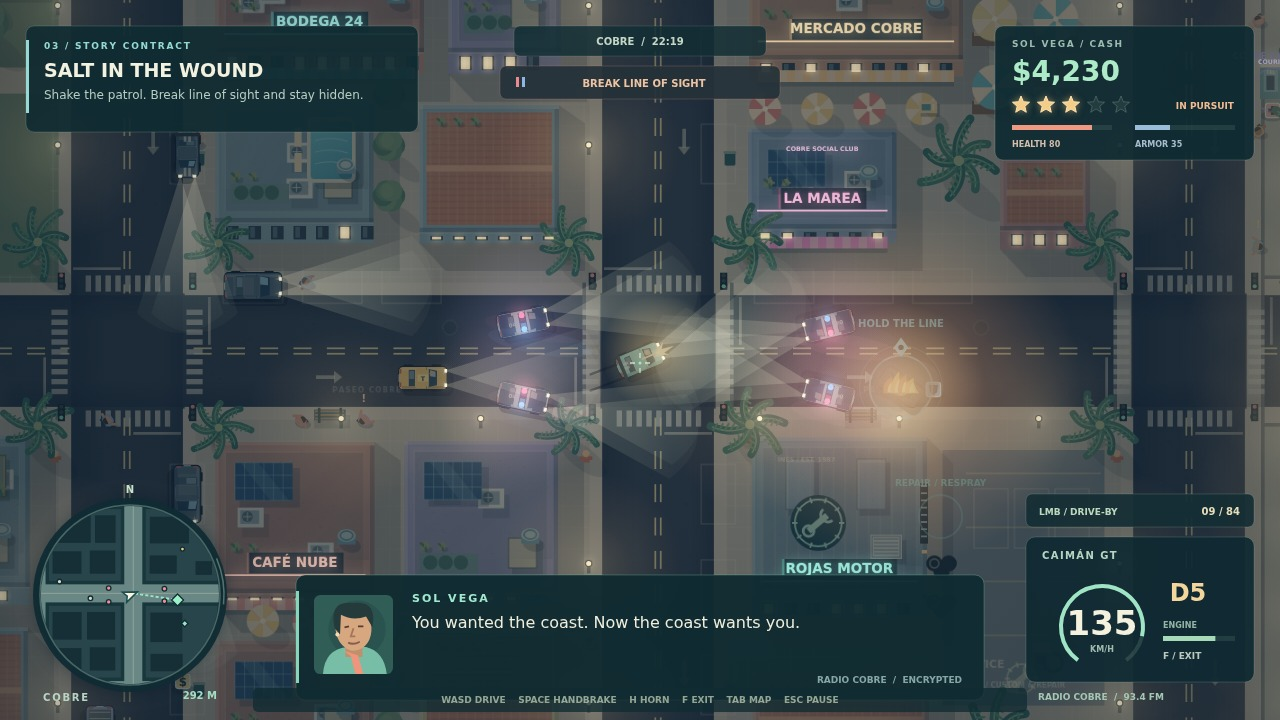
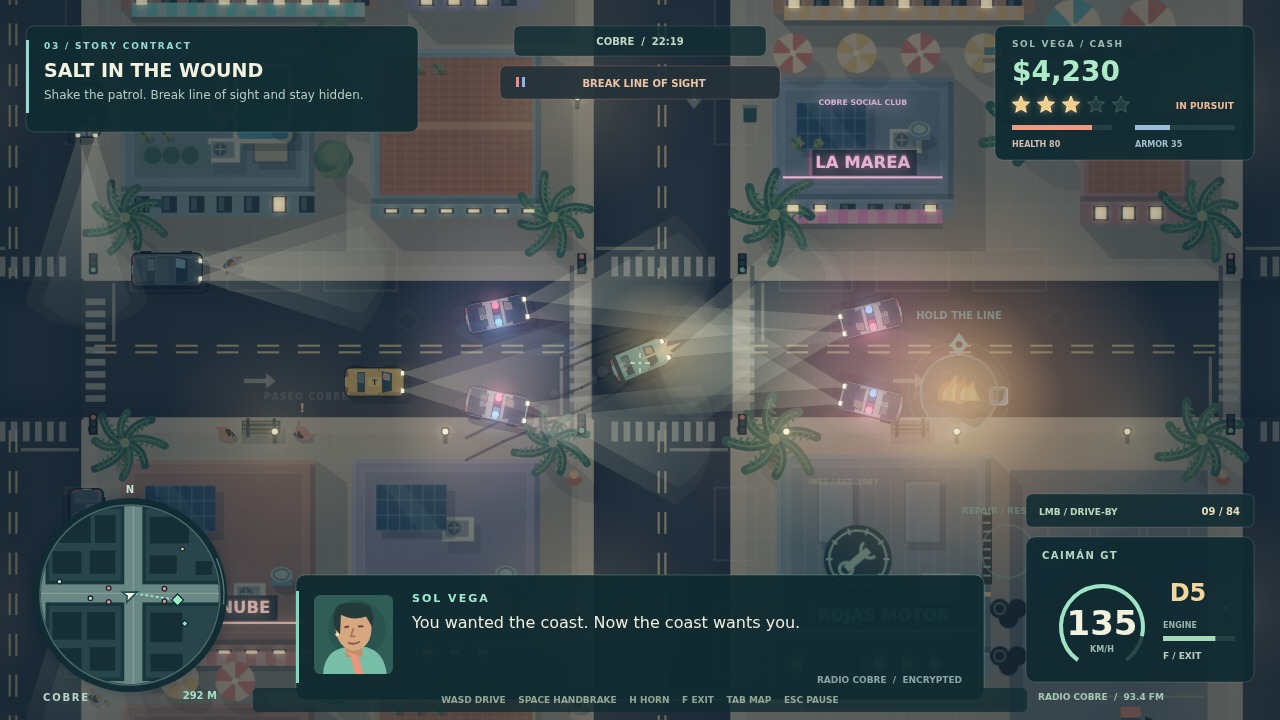
cover: heat scene keeps its action effects visible at capture

diff --git a/game/src/shots.js b/game/src/shots.js
@@ -19,15 +19,42 @@
       this.game.pedestrians.list = this.game.pedestrians.list.filter(person => Math.hypot(person.x - x, person.y - y) > radius);
     }
     drive(car) { this.game.player.vehicle = car; car.driver = 'sol'; this.game.player.x = car.x; this.game.player.y = car.y; }
-    skid(points) {
+    skid(points, width = 9, life = 70) {
       for (let n = 1; n < points.length; n++) {
-        for (const side of [-1, 1]) this.game.vehicles.skids.push({ px: points[n - 1][0], py: points[n - 1][1] + side * 9,
-          x: points[n][0], y: points[n][1] + side * 9, life: 70 });
+        for (const side of [-1, 1]) this.game.vehicles.skids.push({ px: points[n - 1][0], py: points[n - 1][1] + side * width,
+          x: points[n][0], y: points[n][1] + side * width, life });
       }
+    }
+    disarmHeatLoop() {
+      if (!this.heatDriver) return;
+      const index = this.game.screenDraw.indexOf(this.heatDriver);
+      if (index >= 0) this.game.screenDraw.splice(index, 1);
+      this.heatDriver = null;
+    }
+    heatDriveBy(hero, wreck) {
+      const game = this.game;
+      game.combat.bullets = game.combat.bullets.filter(bullet => !bullet.heat);
+      game.combat.shoot(hero.x, hero.y, hero.angle, 'sol');
+      const shot = game.combat.bullets[game.combat.bullets.length - 1];
+      if (shot) shot.heat = true;
+      game.particles.smoke(wreck.x + game.rng.range(-7, 7), wreck.y + game.rng.range(-5, 5), '#8f968c', 5);
+      game.particles.smoke(hero.x - Math.cos(hero.angle) * 46, hero.y - Math.sin(hero.angle) * 46, '#a4ab9f', 4);
+    }
+    armHeatLoop(hero, wreck) {
+      const game = this.game;
+      this.disarmHeatLoop();
+      this.heatDriver = () => {
+        if (game.__SHOT_SCENE__ !== 'heat' || game.frameCount <= 0 || game.frameCount % 18 !== 0) return;
+        if (this.heatFiredFrame === game.frameCount) return;
+        this.heatFiredFrame = game.frameCount;
+        this.heatDriveBy(hero, wreck);
+      };
+      game.screenDraw.push(this.heatDriver);
     }
     bootRequestedScene() {
       const shot = this.game.params.get('shot');
       if (!['start', 'play', 'chase', 'night', 'walk', 'heat'].includes(shot)) return;
+      this.disarmHeatLoop();
       const game = this.game;
       game.staged = true; game.mode = shot === 'start' ? 'title' : 'play'; game.paused = false;
       game.camera.locked = true; game.visualTime = 2.7; game.time = 61.7;
@@ -147,12 +174,15 @@
       game.missions.shotMarker = { x: 2340, y: 1520, label: 'HOLD THE LINE', action: 'KEEP MOVING', hostile: false };
       const hero = this.car('sports', 2050, 1490, -0.4, '#91d6bc', 'sol', 300); this.drive(hero);
       hero.hp = 80; hero.speed = 300; hero.vx = Math.cos(-0.4) * 300; hero.vy = Math.sin(-0.4) * 300;
-      this.skid([[1995, 1515], [2040, 1498]]);
+      this.skid([[1892, 1571], [1926, 1554], [1962, 1539], [1997, 1525], [2026, 1511], [2043, 1500], [2050, 1490]], 10, 74);
+      this.skid([[1978, 1492], [2012, 1478], [2040, 1468]], 7, 60);
       const box = (x, y, angle) => { const unit = game.police.spawnUnit(x, y, angle); unit.speed = 250; unit.desiredSpeed = 250; return unit; };
       box(1920, 1448, -0.2); box(1920, 1532, 0.2); box(2260, 1452, 2.9); box(2260, 1528, -2.9);
       const wreck = this.car('sedan', 2340, 1520, 0.6, '#a8b4bd', null); wreck.damage(999, 'sol');
       game.particles.smoke(2340, 1520, '#8f968c', 8);
-      game.combat.bullets = []; game.combat.shoot(hero.x, hero.y, hero.angle, 'sol');
+      game.particles.smoke(2016, 1501, '#9aa298', 5); game.particles.smoke(1972, 1520, '#9aa298', 4);
+      this.heatDriveBy(hero, wreck);
+      this.armHeatLoop(hero, wreck);
       game.story.radio('Sol Vega', 'You wanted the coast. Now the coast wants you.', 6);
       game.camera.snap(2050, 1490, 1.1); game.input.mouse = { x: 640, y: 363, down: false, clicked: false };
       game.cash = 4230; game.reputation = 32; game.stats.missions = 2; game.stats.stolen = 5; game.stats.escapes = 1;
